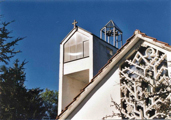
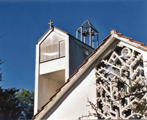
Startseite Bilder korrigiert

diff --git a/content/index.md b/content/index.md
@@ -2,7 +2,7 @@
 title: Startseite
 images:
   - link: /werke/david/
-    file: g-david.jpg
+    file: g-heimsuchung.jpg
   - link: #
     file: g-turm.jpg
   - link: #
